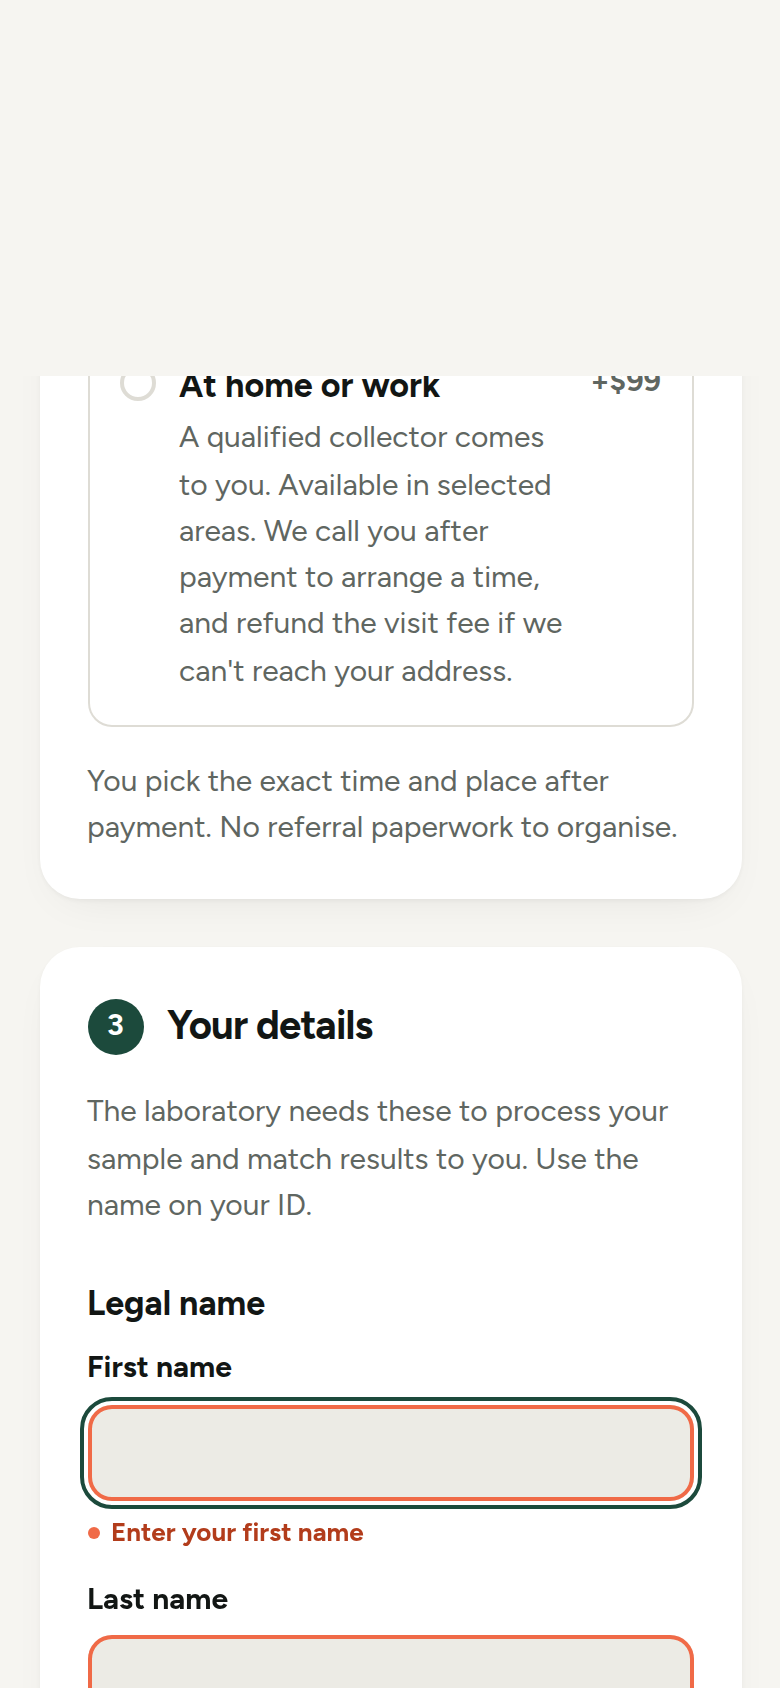
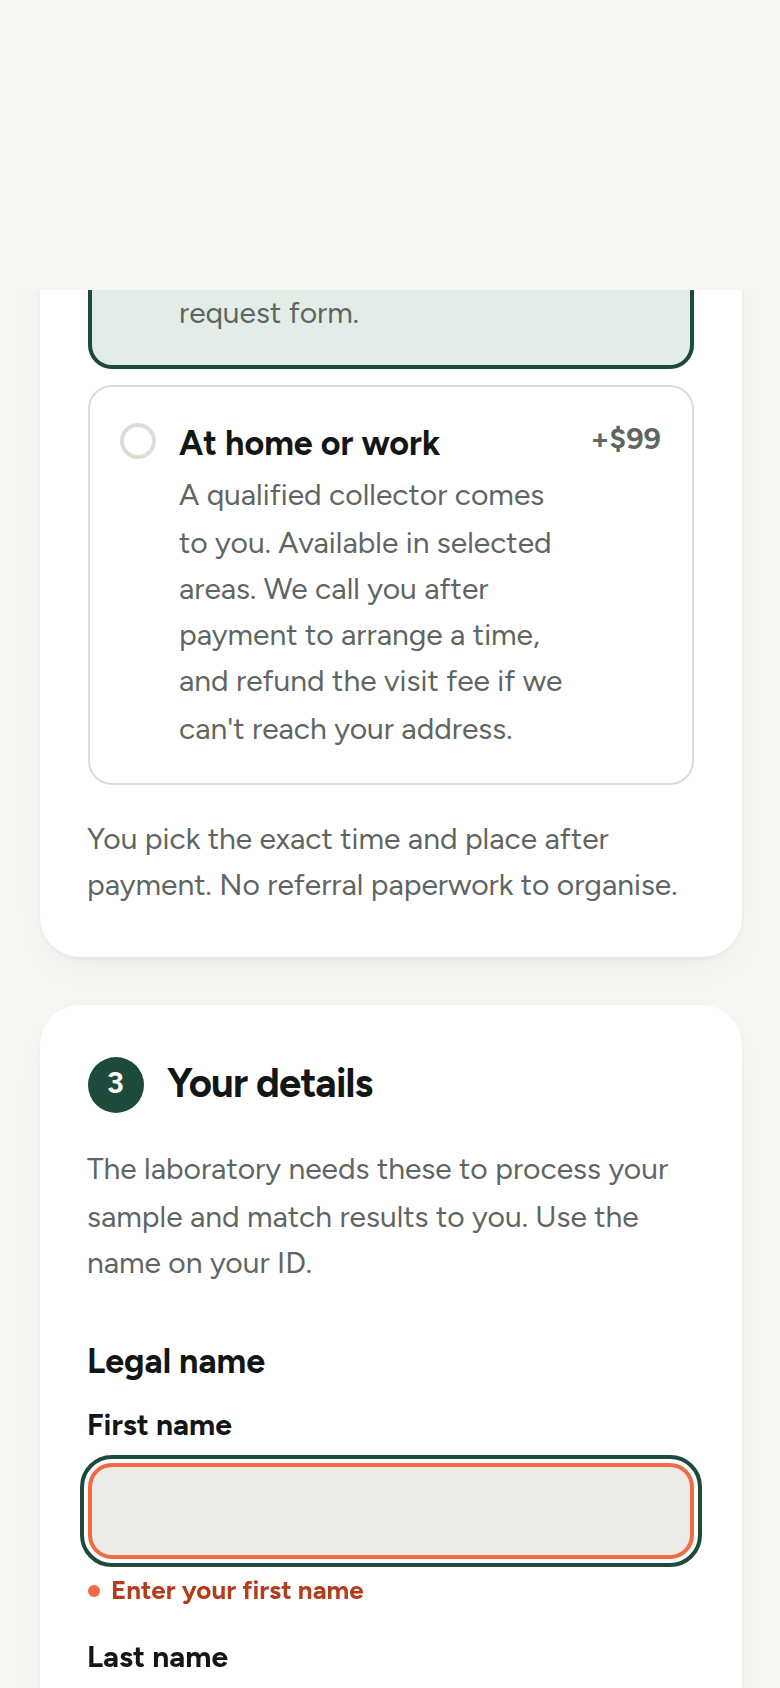
Checkout: payment is its own step
"Continue to payment" now swaps the whole page for a focused payment
screen: amount in the heading, the Stripe card form and wallet buttons
full width, a compact order summary beside it (lines, total, name, email,
collection) with an edit link, and a Back control. Entering the step
pushes a history entry so the browser Back button returns to the details
with everything still typed. The checkout header moved into the client
component so it changes per step. New payment_step_viewed event maps to
GA4 add_payment_info and Meta AddPaymentInfo.

Claude-Session: https://claude.ai/code/session_01CjgrVakohwrtTz92CBzn2N

diff --git a/src/components/checkout/Checkout.tsx b/src/components/checkout/Checkout.tsx
@@ -48,7 +48,6 @@ export function Checkout() {
   const [plan, setPlan] = useState<RetestOffer | null>(null);
   const [starting, setStarting] = useState(false);
   const detailsRef = useRef<HTMLElement>(null);
-  const payRef = useRef<HTMLElement>(null);
   const detailsDone = useRef(false);
   const router = useRouter();
   const quote = useMemo(() => quoteConfiguration(cfg), [cfg]);
@@ -80,6 +79,17 @@ export function Checkout() {
   // Any change to what's being bought or who's buying invalidates a started payment.
   useEffect(() => { setPayment(null); }, [cfg, customer]);
 
+  // The payment step is its own screen: entering it pushes a history entry so the browser's
+  // Back button (and our own) returns to the details without losing anything typed.
+  useEffect(() => {
+    const onPop = () => setPayment(null);
+    window.addEventListener("popstate", onPop);
+    return () => window.removeEventListener("popstate", onPop);
+  }, []);
+  function leavePayment() {
+    if (window.history.state?.step === "pay") window.history.back(); else setPayment(null);
+  }
+
   // Always: the laboratory prints the address on the request form as an identifier, whichever way the sample is collected.
   const requiresAddress = true;
   const errors = useMemo(() => validateCustomer(customer, { requiresAddress }, detailsCopy.errors), [customer, requiresAddress]);
@@ -95,7 +105,7 @@ export function Checkout() {
 
   const ALL_FIELDS = Object.keys(emptyCustomer()) as CustomerField[];
   async function attemptPay() {
-    if (payment) { payRef.current?.scrollIntoView({ behavior: "smooth", block: "start" }); return; }
+    if (payment) return;
     if (!cfg.collectionMethodId) { setPayMessage("Choose a collection option first."); return; }
     if (!detailsValid) {
       setTouched(Object.fromEntries(ALL_FIELDS.map((f) => [f, true])));
@@ -115,7 +125,9 @@ export function Checkout() {
       const res = await createOrder(cfg, customer);
       if (res.status === "ready") {
         setPayment({ orderId: res.orderId, clientSecret: res.clientSecret, amountCents: res.amountCents, token: res.token });
-        requestAnimationFrame(() => payRef.current?.scrollIntoView({ behavior: "smooth", block: "start" }));
+        window.history.pushState({ step: "pay" }, "");
+        window.scrollTo({ top: 0, behavior: "instant" as ScrollBehavior });
+        track({ name: "payment_step_viewed", props: { product_id: signalTest.id, addon_ids: cfg.addonIds } });
       } else if (res.status === "invalid") {
         setTouched(Object.fromEntries(ALL_FIELDS.map((f) => [f, true])));
         setPayMessage(Object.values(res.errors)[0] ?? "Check your details.");
@@ -157,9 +169,60 @@ export function Checkout() {
   }
 
   const canPay = paymentsLive && quote.pricingComplete && Boolean(cfg.collectionMethodId) && detailsValid;
+  const collection = cfg.collectionMethodId ? collectionMethods.find((m) => m.id === cfg.collectionMethodId) : undefined;
+
+  if (payment) {
+    return (
+      <div className={styles.payStep}>
+        <header className={styles.header}>
+          <button type="button" className={styles.back} onClick={leavePayment}><Icon name="arrow" size={16} className={styles.backIcon} /> Back to your details</button>
+          <h1 className={styles.title}>Pay <span className="num">{formatAUD(payment.amountCents)}</span></h1>
+          <p className={styles.intro}>Card, Apple Pay or Google Pay. Secured by Stripe.</p>
+        </header>
+        <div className={styles.payGrid}>
+          <section className={styles.payCard} aria-label="Payment">
+            <PaymentPanel
+              key={payment.clientSecret}
+              clientSecret={payment.clientSecret}
+              amountCents={payment.amountCents}
+              billing={{ name: `${customer.firstName.trim()} ${customer.lastName.trim()}`, email: customer.email.trim(), phone: customer.phone.trim() }}
+              returnUrl={`${typeof window !== "undefined" ? window.location.origin : ""}/order/${payment.orderId}?t=${encodeURIComponent(payment.token)}${plan ? `&plan=${plan.id}` : ""}`}
+              onSuccess={onPaid}
+            />
+          </section>
+          <aside className={styles.paySummary} aria-labelledby="pay-summary-title">
+            <p id="pay-summary-title" className={styles.payTitle}>Your order</p>
+            <ul className={styles.payLines}>
+              {quote.lines.map((l) => (
+                <li key={l.id}><span>{l.label}</span><span className="num">{l.priceCents !== null ? formatAUD(l.priceCents) : "TBC"}</span></li>
+              ))}
+            </ul>
+            <div className={styles.total}><span>Total</span><span className={cx(styles.totalValue, "num")}>{formatAUD(payment.amountCents)}</span></div>
+            <dl className={styles.payWho}>
+              <div><dt>Name</dt><dd>{customer.firstName.trim()} {customer.lastName.trim()}</dd></div>
+              <div><dt>Email</dt><dd>{customer.email.trim()}</dd></div>
+              <div><dt>Collection</dt><dd>{collection?.name ?? "-"}</dd></div>
+            </dl>
+            <button type="button" className={styles.remove} onClick={leavePayment}>Edit order or details</button>
+            {trust.length ? (
+              <ul className={styles.trust}>
+                {trust.map((c) => <li key={c.id}><Icon name={c.icon} size={14} /> {c.text}</li>)}
+              </ul>
+            ) : null}
+            <p className={styles.fine}>Your confirmation and pathology request form are emailed straight after payment. Prices in AUD.</p>
+          </aside>
+        </div>
+      </div>
+    );
+  }
 
   return (
     <div className={styles.wrap}>
+      <header className={styles.header}>
+        <p className={styles.crumbs}><Link href="/signal">The SIGNAL Test</Link><span aria-hidden="true"> / </span><span>Checkout</span></p>
+        <h1 className={styles.title}>Almost there.</h1>
+        <p className={styles.intro}>Check your SIGNAL, choose how you&apos;d like to be collected, add your details, then pay on the next screen. About two minutes.</p>
+      </header>
       <div className={styles.main}>
         <section className={styles.block} aria-labelledby="summary-title">
           <h2 id="summary-title" className={styles.blockTitle}><span className={styles.n}>1</span> Your SIGNAL</h2>
@@ -262,35 +325,20 @@ export function Checkout() {
           <li className={cfg.collectionMethodId ? styles.done : undefined}><Icon name="check" size={14} /> Collection {cfg.collectionMethodId ? "chosen" : "not chosen yet"}</li>
           <li className={detailsValid ? styles.done : undefined}><Icon name="check" size={14} /> Details {detailsValid ? "complete" : "to complete"}</li>
         </ul>
-        {payment ? (
-          <div ref={payRef as React.RefObject<HTMLDivElement>} className={styles.paymentMount}>
-            <PaymentPanel
-              key={payment.clientSecret}
-              clientSecret={payment.clientSecret}
-              amountCents={payment.amountCents}
-              billing={{ name: `${customer.firstName.trim()} ${customer.lastName.trim()}`, email: customer.email.trim(), phone: customer.phone.trim() }}
-              returnUrl={`${typeof window !== "undefined" ? window.location.origin : ""}/order/${payment.orderId}?t=${encodeURIComponent(payment.token)}${plan ? `&plan=${plan.id}` : ""}`}
-              onSuccess={onPaid}
-            />
-          </div>
-        ) : (
-          <>
-            <button type="button" className={styles.payButton} data-ready={canPay ? "true" : "false"} onClick={attemptPay} disabled={starting}>
-              {starting ? "Starting payment…" : paymentsLive ? "Continue to payment" : "Payments open at launch"} <Icon name="arrow" size={18} />
-            </button>
-            <p className={styles.payNote} aria-live="polite">
-              {payMessage ?? (paymentsLive
-                ? "Card, Apple Pay and Google Pay. Secured by Stripe."
-                : cfg.collectionMethodId ? "Card, Apple Pay and Google Pay will be available here." : "Choose a collection option to continue.")}
-            </p>
-          </>
-        )}
+        <button type="button" className={styles.payButton} data-ready={canPay ? "true" : "false"} onClick={attemptPay} disabled={starting}>
+          {starting ? "Starting payment…" : paymentsLive ? "Continue to payment" : "Payments open at launch"} <Icon name="arrow" size={18} />
+        </button>
+        <p className={styles.payNote} aria-live="polite">
+          {payMessage ?? (paymentsLive
+            ? "Card, Apple Pay and Google Pay on the next screen. Secured by Stripe."
+            : cfg.collectionMethodId ? "Card, Apple Pay and Google Pay will be available here." : "Choose a collection option to continue.")}
+        </p>
         {trust.length ? (
           <ul className={styles.trust}>
             {trust.map((c) => <li key={c.id}><Icon name={c.icon} size={14} /> {c.text}</li>)}
           </ul>
         ) : null}
-        <p className={styles.fine}>You&apos;ll receive an email confirmation and a link to book your collection. Prices in AUD.</p>
+        <p className={styles.fine}>Your confirmation and pathology request form are emailed straight after payment. Prices in AUD.</p>
       </aside>
 
       <div className={styles.bar} data-theme="light">
@@ -299,7 +347,7 @@ export function Checkout() {
             <span className={styles.barLabel}>Total</span>
             <span className={cx(styles.barPrice, "num")}>{displayTotal(quote, formatAUD, "Pricing coming soon")}</span>
           </span>
-          <button type="button" className={cx(styles.payButton, styles.barButton)} data-ready={canPay ? "true" : "false"} onClick={attemptPay} disabled={starting}>{payment ? "Pay" : paymentsLive ? "Continue" : "Opens at launch"}</button>
+          <button type="button" className={cx(styles.payButton, styles.barButton)} data-ready={canPay ? "true" : "false"} onClick={attemptPay} disabled={starting}>{paymentsLive ? "Continue" : "Opens at launch"}</button>
         </div>
       </div>
     </div>

diff --git a/src/components/checkout/Checkout.module.css b/src/components/checkout/Checkout.module.css
@@ -1,4 +1,27 @@
 .wrap { display: grid; gap: var(--s-6); align-items: start; }
+.header { grid-column: 1 / -1; max-width: 40rem; }
+.crumbs { font-size: var(--fs-sm); color: var(--muted); }
+.crumbs a { text-decoration: none; display: inline-flex; align-items: center; min-height: 44px; }
+.crumbs a:hover { text-decoration: underline; }
+.title { font-size: var(--fs-xl); line-height: var(--lh-snug); font-weight: 700; letter-spacing: -0.03em; }
+.intro { margin-top: var(--s-3); color: var(--muted); text-wrap: pretty; }
+
+/* Payment step: its own screen. Card form first, order summary beside it on desktop. */
+.payStep { display: grid; gap: var(--s-5); }
+.back { display: inline-flex; align-items: center; gap: 6px; min-height: 44px; padding: 0; border: 0; background: none; cursor: pointer; font: inherit; font-size: var(--fs-sm); font-weight: 700; color: var(--muted); }
+.back:hover { color: var(--fg); }
+.backIcon { transform: rotate(180deg); }
+.payGrid { display: grid; gap: var(--s-5); align-items: start; }
+.payCard { padding: var(--s-5); border-radius: var(--r-md); background: var(--panel); box-shadow: var(--shadow-card); }
+.paySummary { display: grid; gap: var(--s-3); padding: var(--s-5); border-radius: var(--r-md); background: var(--panel); box-shadow: var(--shadow-soft); }
+.payWho { display: grid; gap: var(--s-2); padding-top: var(--s-3); border-top: 1px solid var(--line); font-size: var(--fs-sm); }
+.payWho div { display: flex; justify-content: space-between; gap: var(--s-3); }
+.payWho dt { color: var(--muted); flex: none; }
+.payWho dd { text-align: right; overflow-wrap: anywhere; }
+@media (min-width: 64rem) {
+  .payGrid { grid-template-columns: minmax(0, 36rem) 20rem; justify-content: start; gap: var(--s-8); }
+  .paySummary { position: sticky; top: var(--s-5); }
+}
 .main { display: grid; gap: var(--s-5); min-width: 0; }
 .block { display: grid; gap: var(--s-4); padding: var(--s-5); border-radius: var(--r-md); background: var(--panel); box-shadow: var(--shadow-soft); }
 .blockTitle { display: flex; align-items: center; gap: var(--s-3); font-size: var(--fs-md); font-weight: 700; letter-spacing: -0.02em; }
@@ -56,7 +79,6 @@
 .payButton { display: inline-flex; align-items: center; justify-content: center; gap: var(--s-2); min-height: 54px; width: 100%; padding: 0 var(--s-5); border: 0; border-radius: var(--r-pill); background: var(--accent); color: var(--on-accent); font-weight: 700; cursor: pointer; }
 .payButton[data-ready="false"] { background: var(--panel-soft); color: var(--muted); }
 .payButton[data-ready="false"]:hover { background: var(--c-brand-soft); color: var(--fg); }
-.paymentMount { scroll-margin-top: var(--s-5); }
 .checklist { display: grid; gap: 6px; font-size: var(--fs-xs); font-weight: 600; color: var(--muted); }
 .checklist li { display: flex; align-items: center; gap: 6px; }
 .checklist svg { color: var(--line); flex: none; }
@@ -76,7 +98,7 @@
 .barButton { width: auto; min-height: 44px; min-width: 9rem; }
 
 @media (min-width: 64rem) {
-  .wrap { grid-template-columns: 1fr 22rem; gap: var(--s-8); }
+  .wrap { grid-template-columns: 1fr 22rem; gap: var(--s-6) var(--s-8); }
   .pay { position: sticky; top: var(--s-5); }
   .bar { display: none; }
 }

diff --git a/src/lib/analytics/events.ts b/src/lib/analytics/events.ts
@@ -37,6 +37,8 @@ export type AnalyticsEvent =
   | { name: "checkout_details_completed"; props: { product_id: string } }
   /** Pay attempted with invalid details; `field_count` only, never which fields or values. */
   | { name: "checkout_details_invalid"; props: { field_count: number } }
+  /** The order exists in Stripe and the payment screen is shown. */
+  | { name: "payment_step_viewed"; props: { product_id: string; addon_ids: string[] } }
   | { name: "purchase_completed"; props: { order_id: string; product_id: string; addon_ids: string[] } & Money }
   | { name: "retest_offer_viewed"; props: RetestOfferProps }
   | { name: "retest_plan_selected"; props: RetestOfferProps }
@@ -81,6 +83,7 @@ export const EVENT_POLICY: Record<EventName, DestinationPolicy> = {
   collection_method_selected: { ga4: "collection_method_selected", meta: null, klaviyo: null, serverAuthoritative: false },
   checkout_details_completed: { ga4: "add_shipping_info", meta: null, klaviyo: null, serverAuthoritative: false },
   checkout_details_invalid: { ga4: "checkout_details_invalid", meta: null, klaviyo: null, serverAuthoritative: false },
+  payment_step_viewed: { ga4: "add_payment_info", meta: "AddPaymentInfo", klaviyo: null, serverAuthoritative: false },
   purchase_completed: { ga4: "purchase", meta: "Purchase", klaviyo: "Placed Order", serverAuthoritative: true },
   retest_offer_viewed: { ga4: "retest_offer_view", meta: null, klaviyo: null, serverAuthoritative: false },
   retest_plan_selected: { ga4: "retest_plan_select", meta: null, klaviyo: null, serverAuthoritative: false },

diff --git a/src/app/checkout/page.tsx b/src/app/checkout/page.tsx
@@ -1,5 +1,4 @@
 import type { Metadata } from "next";
-import Link from "next/link";
 import { Checkout } from "@/components/checkout/Checkout";
 import { SiteFooter } from "@/components/layout/SiteFooter";
 import { SiteHeader } from "@/components/layout/SiteHeader";
@@ -8,18 +7,13 @@ import styles from "./page.module.css";
 
 export const metadata: Metadata = { title: "Checkout", robots: { index: false, follow: false } };
 
-/** Checkout. Static shell; the client island reads ?addons=&collection= and quotes with the same pricing function as the configurator. */
+/** Checkout. Static shell; the client island renders the header (it changes on the payment step), reads ?addons=&collection= and quotes with the same pricing function as the configurator. */
 export default function CheckoutPage() {
   return (
     <>
       <SiteHeader />
       <main id="main" className={styles.main}>
         <Container>
-          <header className={styles.header}>
-            <p className={styles.crumbs}><Link href="/signal">The SIGNAL Test</Link><span aria-hidden="true"> / </span><span>Checkout</span></p>
-            <h1 className={styles.title}>Almost there.</h1>
-            <p className={styles.intro}>Check your SIGNAL, choose how you&apos;d like to be collected, add your details, and pay. About two minutes.</p>
-          </header>
           <Checkout />
         </Container>
       </main>

diff --git a/src/app/checkout/page.module.css b/src/app/checkout/page.module.css
@@ -1,8 +1,2 @@
 .main { padding-block: var(--s-5) var(--section-pad); padding-bottom: calc(var(--section-pad) + 5rem); }
-.header { margin-bottom: var(--s-6); max-width: 40rem; }
-.crumbs { font-size: var(--fs-sm); color: var(--muted); }
-.crumbs a { text-decoration: none; display: inline-flex; align-items: center; min-height: 44px; }
-.crumbs a:hover { text-decoration: underline; }
-.title { font-size: var(--fs-xl); line-height: var(--lh-snug); font-weight: 700; letter-spacing: -0.03em; }
-.intro { margin-top: var(--s-3); color: var(--muted); text-wrap: pretty; }
 @media (min-width: 64rem) { .main { padding-bottom: var(--section-pad); } }
